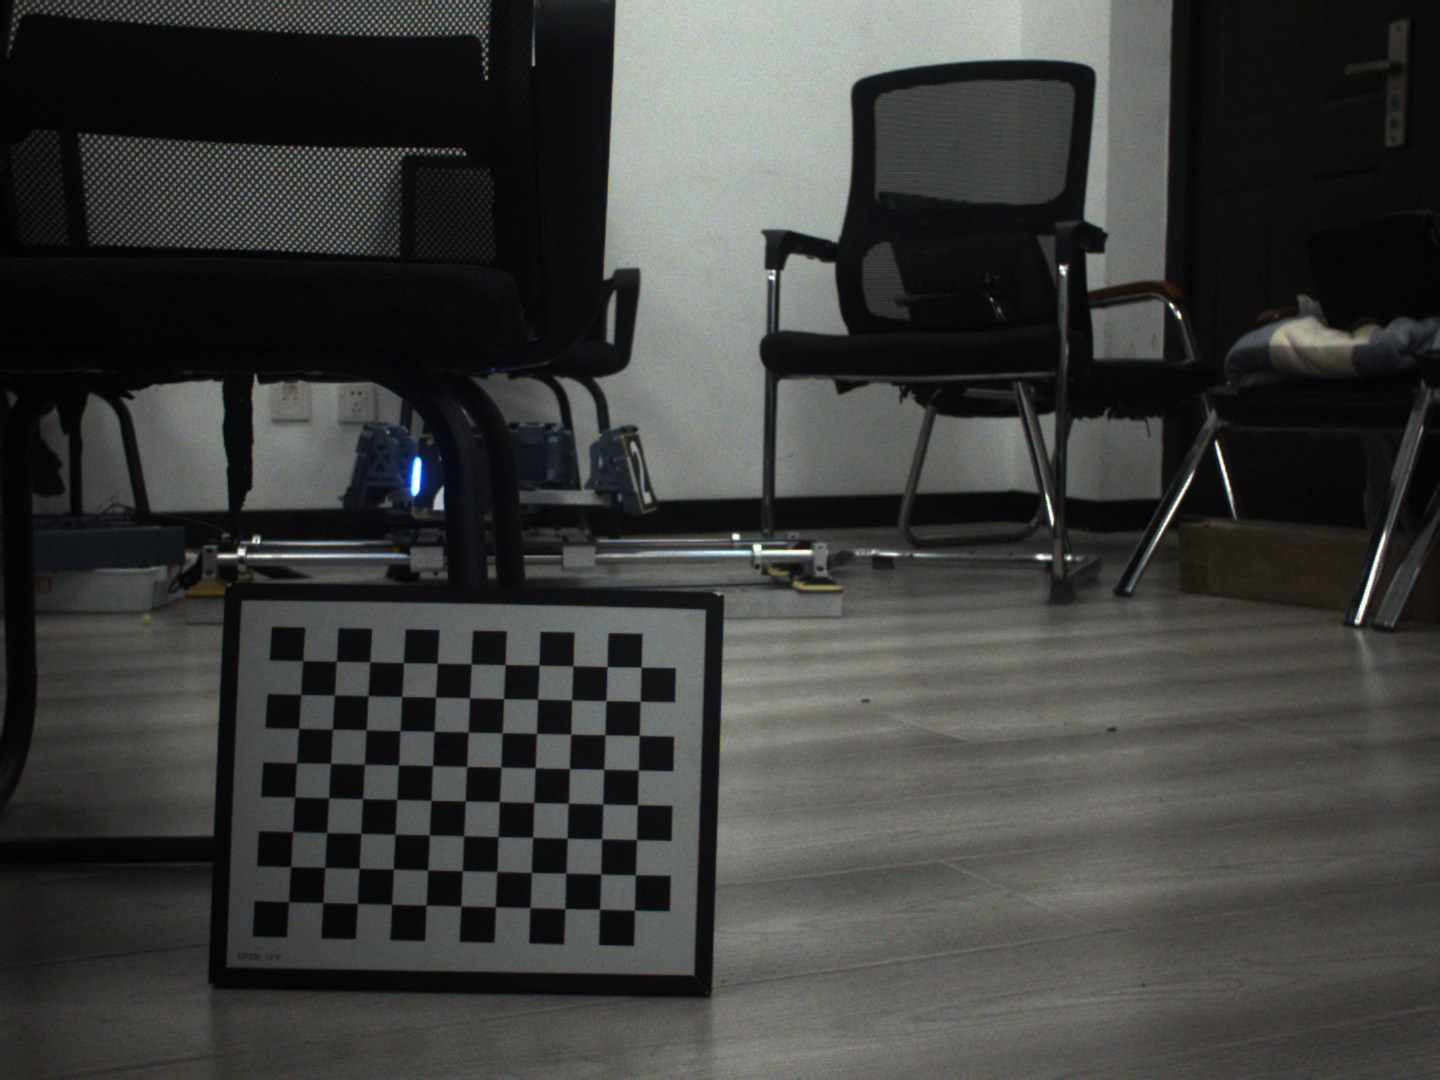
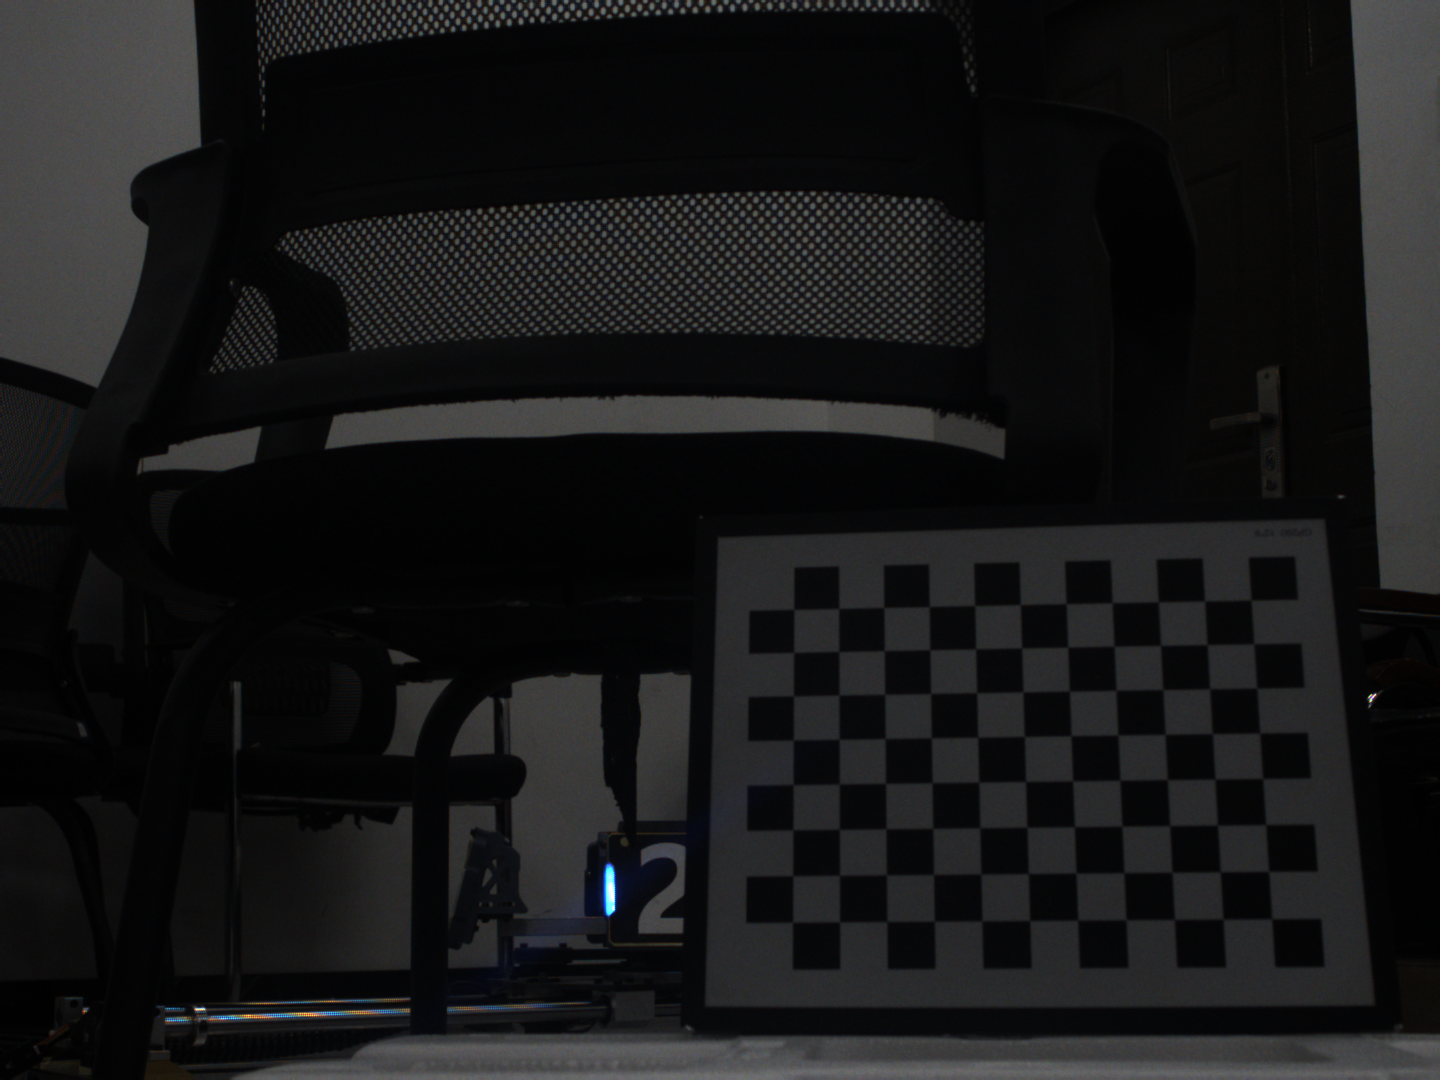
have bug

diff --git a/rm-main/main.cpp b/rm-main/main.cpp
@@ -39,8 +39,8 @@ static FastQueue<FrameData> Frames(10);
 
 std::chrono::steady_clock::time_point next_point = std::chrono::steady_clock::now();
 
-io::HikCamera Hik(0.5,17);
-io::RTSerial<Packet> ser(20);
+io::HikCamera Hik(1.5,17);
+io::RTSerial<Packet> ser(30);
 
 // 传统视觉检测器
 Detector detect(Light::Color::Blue, 0.5);
@@ -67,7 +67,7 @@ int main() {
 
     std::function<bool(const Packet&)> check_fuc = io::CRC8::Check<Packet>;
     ser.setCheckfuc(check_fuc);
-    int ret = ser.openDevice("/dev/ttyACM0", 460800);
+    int ret = ser.openDevice("/dev/ttyACM1", 460800);
 
     if(ret == 1)
         std::cout<<"serial open ok"<<"\n";
@@ -83,7 +83,7 @@ int main() {
     //3.0创建数据配对线程，并将数据发布到Frames环形队列
     std::thread match_thread = std::thread(rm::IMUAndImageMatchFunction, std::ref(Hik), std::ref(ser), std::ref(Frames));
 
-    cv::namedWindow("frame");
+    // cv::namedWindow("frame");
     auto start = std::chrono::steady_clock::now();
 
     std::printf("Start main loop\n");
@@ -100,6 +100,8 @@ int main() {
         }
         if(frame.image.empty()) continue;
 
+        // cv::imshow("frame", frame.image);
+        cv::waitKey(1);
         //计算枪管方向
         const auto& Gun = shoot.GunDirection(frame.quat);
 
@@ -107,11 +109,17 @@ int main() {
         std::vector<cv::Mat> armors_pattern;
         auto opencv_armors = detect(frame.image, armors_pattern);
 
+        // std::cout<<"opencv_armors num:" << opencv_armors.size() << "\n";
+
         // 2. YOLO检测
         auto yolo_armors = yolo11detect(frame.image);
 
+        // std::cout<<"yolo_armors num:" << yolo_armors.size() << "\n";
+
         // 3. 融合传统视觉和YOLO的结果
         auto fused_yolo_armors = rm::MatchYoloAndOpenCV(opencv_armors, yolo_armors);
+
+        // std::cout<<"fused_yolo_armors num:" << fused_yolo_armors.size() << "\n";
 
         // 4. 解算装甲板位置 (使用融合后的YOLO结果)
         auto armors_posi = Sov(fused_yolo_armors);
@@ -119,9 +127,10 @@ int main() {
         // 5. 筛选装甲板，内部自动坐标系转换到世界坐标系
         Sov.FilterAndConverToWorld(armors_posi, frame.quat, Gun, 20);
 
-
+        // std::cout<<"FilterAndConverToWorld armors_posi num:" << armors_posi.size() << "\n";
+        
         // 7. 使用Tracker进行追踪
-        track(armors_posi, frame.quat, Gun, rm::SolveDt(next_point, frame.time, 0.005));
+        track(armors_posi, frame.quat, Gun, rm::SolveDt(next_point, frame.time, 0.01));
         next_point = frame.time;
 
         // 8. 获取当前追踪的机器人

diff --git a/rm-main/src/HikCamera.cpp b/rm-main/src/HikCamera.cpp
@@ -155,10 +155,10 @@ void HikCamera::capture_init()
   }
 
   // 设置 ADC 位深为 8 Bits (对应枚举值 2)
-  ret = MV_CC_SetEnumValue(handle_, "ADCBitDepth", 2); 
-  if (MV_OK != ret) {
-      tools::logger()->warn("Set ADCBitDepth to 8-Bit (Val:2) failed! nRet [0x{0:x}]", ret);
-  }
+  // ret = MV_CC_SetEnumValue(handle_, "ADCBitDepth", 2); 
+  // if (MV_OK != ret) {
+  //     tools::logger()->warn("Set ADCBitDepth to 8-Bit (Val:2) failed! nRet [0x{0:x}]", ret);
+  // }
 
   set_enum_value("BalanceWhiteAuto", MV_BALANCEWHITE_AUTO_CONTINUOUS);
   set_enum_value("ExposureAuto", MV_EXPOSURE_AUTO_MODE_OFF);
@@ -169,7 +169,7 @@ void HikCamera::capture_init()
 
 
 
-  ret = MV_CC_SetFloatValue(handle_, "AcquisitionFrameRate", 200);
+  ret = MV_CC_SetFloatValue(handle_, "AcquisitionFrameRate", 100);
   if (ret != MV_OK) {
     tools::logger()->warn("MV_CC_SetFloatValue(set framerate) failed: {:#x}", ret);
     return;
@@ -223,8 +223,8 @@ void HikCamera::continueCap(size_t MaxframeNum)
         {PixelType_Gvsp_BayerBG8, cv::COLOR_BayerBG2RGB}};
       cv::cvtColor(img, dst_image, type_map.at(pixel_type));
 
-      // cv::rotate(dst_image, img, cv::ROTATE_180); // 水平翻转
-      img = dst_image;
+      cv::rotate(dst_image, img, cv::ROTATE_180); // 水平翻转
+      // img = dst_image;
       Frames.push({img, timestamp});
 
       ret = MV_CC_FreeImageBuffer(handle_, &raw);

diff --git a/rm-main/include/EKFKalman.hpp b/rm-main/include/EKFKalman.hpp
@@ -5,6 +5,8 @@
 #include <opencv2/core/quaternion.hpp>
 #include <vector>
 
+
+
 class EKFKalman
 {
 public:
@@ -17,9 +19,9 @@ public:
     void Init();
 
     // 过程噪声参数
-    const double r_view = 100; // 观测噪声半径
-    const double Var_yaw = 0.6, Var_dtheta = 0.001,Var_h_view = 10.0; // 观测yaw值方差
-    const double Var_a = 10000.0, Var_alpha = 0.6;
+    const double r_view = 1000; // 观测噪声半径
+    const double Var_yaw = 0.1, Var_dtheta = 0.001,Var_h_view = 10.0; // 观测yaw值方差
+    const double Var_a = 10000.0, Var_alpha = 0.1;
     const double Var_r = 0.01, Var_l = 0.01, Var_h = 0.01; // 结构参数收敛噪声极小
 
     /*
@@ -67,7 +69,7 @@ public:
     const Eigen::Matrix<double, 14, 14> CovStateInit = (Eigen::Matrix<double, 14, 1>() << 
         100, 100, 100,       // xc, yc, zc 位置方差
         10000, 10000, 10000, // vxc, vyc, vzc 速度方差
-        0.01, 36,           // theta, w 角度与角速度方差
+        0.01, 0.25,           // theta, w 角度与角速度方差
         10, 10, 10,           // r, l, h 几何结构初始方差
         0.0016, 0.0016, 0.0016  //d_theta_1,d_theta_2,d_theta_3
     ).finished().asDiagonal();

diff --git a/rm-main/src/Target.cpp b/rm-main/src/Target.cpp
@@ -15,7 +15,12 @@
 #include <opencv2/core/quaternion.hpp>
 #include <opencv2/core/types.hpp>
 #include <vector>
-// #define TargetDebug
+
+#include "../include/RerunVisualizer.hpp"
+
+extern RerunVisualizer viz;
+
+#define TargetDebug
 //Debug
 
 std::array<RobotSize, 5> Robot::Size;
@@ -118,7 +123,9 @@ void Robot::OneArmor(const ArmorPosi& armor, const cv::Quatd& gripper_to_world, 
 {
     // 计算装甲板状态
     Eigen::Matrix<double, 4, 1> ArmorState{armor.posi.x, armor.posi.y, armor.posi.z, this->SolveTheta(armor)};
-    
+    #ifdef TargetDebug
+    viz.show("view_yaw", ArmorState(3,0));
+    #endif
     //装甲板匹配
     int ID = 0; 
     

diff --git a/tools/RobotHandEyeCalibrate/src/HikCamera.cpp b/tools/RobotHandEyeCalibrate/src/HikCamera.cpp
@@ -223,8 +223,8 @@ void HikCamera::continueCap(size_t MaxframeNum)
         {PixelType_Gvsp_BayerBG8, cv::COLOR_BayerBG2RGB}};
       cv::cvtColor(img, dst_image, type_map.at(pixel_type));
 
-      // cv::rotate(dst_image, img, cv::ROTATE_180); // 水平翻转
-      Frames.push({dst_image, timestamp});
+      cv::rotate(dst_image, img, cv::ROTATE_180); // 水平翻转
+      Frames.push({img, timestamp});
 
       ret = MV_CC_FreeImageBuffer(handle_, &raw);
       if (ret != MV_OK) {

diff --git a/tools/RobotHandEyeCalibrate/src/data_autoSDK.cpp b/tools/RobotHandEyeCalibrate/src/data_autoSDK.cpp
@@ -58,7 +58,7 @@ struct Test
 void IMUAndImageMatchThread(io::HikCamera& Hik, io::RTSerial<Packet>& ser,FastQueue<FrameData>& Frames);
 
 
-io::HikCamera Hik(4,5);
+io::HikCamera Hik(4,10);
 io::RTSerial<Packet> ser(20);
 static FastQueue<FrameData> Frames(10);
 
